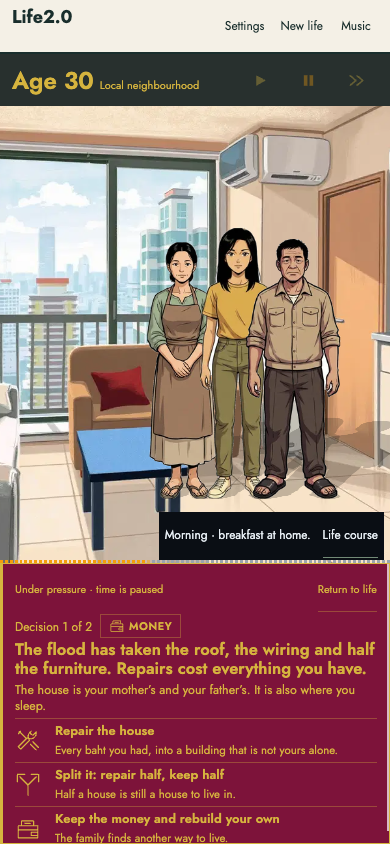
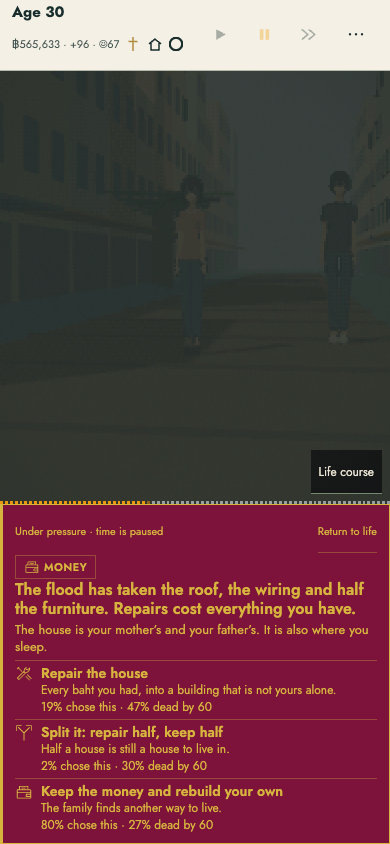
phone plan screen gives its space back to the world
CSS fixes:
- Header 150→68px: money + symbols on one line, 34px transport keys
- Plan panel fits card height, action moved to panel exit
- Step tabs scroll instead of clipping
- World overlays share one edge
- Canvas fills remaining screen space (392→584px world height)

430 tests pass; audit gate 0 high.

diff --git a/dist/course/course.css b/dist/course/course.css
@@ -1,5 +1,24 @@
 :root{--paper:#f4f0e6;--ink:#192e2c;--muted:#52635b;--amber:#f59e0b;--line:#b4b9a9;font-family:Jost,sans-serif;font-size:16px;color:var(--ink);background:var(--paper)}
-html[lang="th"]{font-family:Prompt,"Noto Sans Thai",Jost,sans-serif}*{box-sizing:border-box}body{margin:0}button,select{font:inherit;color:inherit}button{cursor:pointer;background:transparent;border:1px solid #77877b;padding:6px 10px;line-height:1.4;transition:background .15s ease-out,transform .15s ease-out}button:hover{background:#dddccb}button:active{transform:scale(.97)}button:disabled{opacity:.35;cursor:default}button:focus-visible,a:focus-visible,select:focus-visible,summary:focus-visible{outline:3px solid var(--accent-ink,#a35d00);outline-offset:3px}a{color:inherit}header{display:flex;align-items:center;justify-content:space-between;gap:10px;padding:4px 12px;border-bottom:1px solid var(--line)}header>a{font-size:18px;font-weight:700;text-decoration:none;min-height:24px;display:inline-flex;align-items:center}header>a span{font-size:10px;font-weight:400;margin-left:10px}header>div{display:flex;gap:8px}header button{font-size:11px;min-height:28px;padding:3px 6px}main{max-width:1440px;margin:0 auto;display:grid;grid-template-columns:minmax(0,1.75fr) minmax(340px,1fr)}.stage{background:var(--stage,#193f3c);color:var(--stage-text,#f4f0e6);align-self:start;min-width:0}.world-head{display:flex;justify-content:space-between;align-items:center;gap:12px;padding:3px 12px}.world-head>div:first-child{display:flex;align-items:baseline;gap:12px}.world-head strong{font-size:16px;font-weight:600}.world-head span{font-size:11px}.transport{display:flex;gap:2px;align-items:center}.transport-key{display:inline-flex;align-items:center;justify-content:center;width:28px;height:28px;min-width:28px;min-height:28px;padding:0;border:0;background:none;color:inherit}.transport-key svg{width:19px;height:15px;display:block;fill:currentColor}.transport-key:hover{color:var(--stage-accent)}.transport-key[aria-pressed=true]{color:var(--stage-accent)}.transport-key:focus-visible{outline:2px solid var(--stage-accent);outline-offset:2px}.transport-fast svg{fill:none}.stage canvas{display:block;width:100%;height:auto;aspect-ratio:1120/680;image-rendering:pixelated}.world-bottom{display:flex;align-items:center;justify-content:space-between;gap:12px;padding:2px 12px}.world-bottom p{margin:0;font-size:11px;max-width:56ch;white-space:nowrap;overflow:hidden;text-overflow:ellipsis}.world-bottom button{font-size:11px;color:inherit;border:0;border-bottom:1px solid #738b77;padding:1px 0;min-height:20px;white-space:nowrap}#age-track{display:flex;gap:2px;padding:0 12px 4px}#age-track span{height:3px;flex:1;background:var(--deck-muted,#60756a)}#age-track span.past{background:var(--amber)}.decision{padding:20px 24px;align-self:start;min-width:0}.section-line{display:flex;align-items:center;justify-content:space-between;gap:12px;font-size:12px;color:var(--muted)}h1{font-size:32px;font-weight:500;line-height:1.15;margin:12px 0}p{line-height:1.45;max-width:65ch;margin:0 0 12px}#narrative{font-size:16px}#birth-info{font-size:16px}#birth-info dl{margin:18px 0}#birth-info dt{font-size:12px;color:var(--muted);margin-top:12px}#birth-info dd{margin:2px 0}.tabs{display:flex;gap:8px;margin:12px 0}.tabs button{font-size:12px;min-height:32px}.tabs button[aria-pressed=true]{border-bottom:3px solid var(--ink);font-weight:600}.radar-wrap{display:flex;align-items:center;gap:8px}.radar-wrap svg{width:64%;max-width:240px;height:auto;flex-shrink:0}.radar-wrap p{font-size:12px;max-width:14ch;margin:0}svg text{font-family:Jost,sans-serif;fill:var(--muted);font-size:12px}#allocation{max-width:340px}.allocation-row{display:grid;grid-template-columns:minmax(110px,1fr) 32px 24px 32px;align-items:center;gap:8px;border-bottom:1px solid var(--line);padding:4px 0}.allocation-row span{font-size:16px}.allocation-row button{padding:2px;min-height:32px}.allocation-row output{text-align:center;font-weight:600}.hint,.fine{font-size:12px;color:var(--muted)}.hint{margin:12px 0}.fine{margin:10px 0 0}.primary{background:var(--amber);border:2px solid var(--ink);font-weight:600;padding:9px 14px;min-height:44px}.primary:hover{background:#ffb629}#last-event{font-size:12px;border-left:3px solid var(--amber);padding-left:10px;margin-top:14px}#last-event:empty{display:none}.profile-field{display:block;margin:12px 0}.profile-field>label{display:block;font-size:12px;color:var(--muted);margin-bottom:4px}select{max-width:100%;background:#fcfaf3;border:1px solid #77877b;padding:7px 8px;font-size:16px}.profile-note{font-size:12px;line-height:1.4}.resources{grid-column:1/-1;padding:16px 24px;border-top:2px solid var(--ink)}h2{font-size:24px;font-weight:500;margin:0}.graphs{display:grid;grid-template-columns:repeat(3,minmax(0,1fr));gap:28px;margin-top:12px}figure{margin:0;min-width:0}figcaption{display:flex;justify-content:space-between;gap:8px;align-items:baseline;font-size:12px}figcaption strong{font-size:24px;font-weight:500}.graphs svg{display:block;width:100%;height:auto;max-height:110px}.method{grid-column:1/-1;border-top:1px solid var(--line);margin:0 24px 20px;padding-top:10px}.method summary{font-size:12px;cursor:pointer;padding:4px 0}.method>div{columns:2;column-gap:32px;margin-top:12px}.method p{font-size:12px;break-inside:avoid}#recap ol{padding-left:20px;font-size:12px;max-height:240px;overflow:auto}#recap li{margin-bottom:10px}#recap strong{font-weight:600}.recap-metrics{display:flex;gap:20px;margin:12px 0}.recap-metrics strong{font-size:24px;display:block}.recap-metrics span{font-size:12px}.recap-title{font-size:16px;font-weight:600}.previous{font-size:12px}[hidden]{display:none!important}@media(max-width:1000px) and (min-width:721px){main{grid-template-columns:minmax(0,1.35fr) minmax(330px,1fr)}.decision{padding:16px}.world-head{padding:10px 12px;align-items:start;flex-wrap:wrap}.world-head>div:first-child{gap:8px}.world-bottom{padding:10px 12px}.radar-wrap svg{max-width:180px}h1{font-size:24px}.graphs{gap:16px}}@media(max-width:720px){header{padding:8px 12px}header>a span{display:none}header>div{gap:6px}main{display:block}.world-head{padding:8px 12px;gap:8px}.world-head strong{font-size:24px}.world-head>div:first-child{gap:8px}.world-head span{max-width:12ch;line-height:1.2}.stage canvas{height:260px;aspect-ratio:auto;object-fit:cover}.world-bottom{padding:8px 12px}.world-bottom p{max-width:30ch}#age-track{padding:0 12px 8px}.decision{padding:16px}h1{font-size:24px;margin:8px 0}#narrative{font-size:16px}.radar-wrap svg{max-width:170px;width:57%}.radar-wrap p{max-width:20ch}.allocation-row{padding:3px 0}.resources{padding:12px 16px}.section-line h2{font-size:16px;font-weight:600}.resources>.section-line>span{font-size:12px;max-width:16ch;text-align:right}.graphs{gap:12px;grid-template-columns:1fr;margin-top:12px}.graphs figure{display:grid;grid-template-columns:120px minmax(0,1fr);align-items:center;gap:8px}.graphs figcaption{display:block}.graphs figcaption strong{display:block;font-size:24px}.graphs svg{max-height:85px}.method{margin:0 16px 16px}.method>div{columns:1}.tabs{margin:8px 0}#birth-info dl{margin:12px 0}#birth-info dt{margin-top:8px}#last-event{margin-top:10px}.hint{margin:8px 0}.profile-field{margin:10px 0}#recap ol{max-height:none;overflow:visible}}@media(prefers-reduced-motion:reduce){*{transition:none!important}}
+html[lang="th"]{font-family:Prompt,"Noto Sans Thai",Jost,sans-serif}*{box-sizing:border-box}body{margin:0}button,select{font:inherit;color:inherit}button{cursor:pointer;background:transparent;border:1px solid #77877b;padding:6px 10px;line-height:1.4;transition:background .15s ease-out,transform .15s ease-out}button:hover{background:#dddccb}button:active{transform:scale(.97)}button:disabled{opacity:.35;cursor:default}button:focus-visible,a:focus-visible,select:focus-visible,summary:focus-visible{outline:3px solid var(--accent-ink,#a35d00);outline-offset:3px}a{color:inherit}header{display:flex;align-items:center;justify-content:space-between;gap:10px;padding:4px 12px;border-bottom:1px solid var(--line)}header>a{font-size:18px;font-weight:700;text-decoration:none;min-height:24px;display:inline-flex;align-items:center}header>a span{font-size:10px;font-weight:400;margin-left:10px}header>div{display:flex;gap:8px}header button{font-size:11px;min-height:28px;padding:3px 6px}main{max-width:1440px;margin:0 auto;display:grid;grid-template-columns:minmax(0,1.75fr) minmax(340px,1fr)}.stage{background:var(--stage,#193f3c);color:var(--stage-text,#f4f0e6);align-self:start;min-width:0}.world-head{display:flex;justify-content:space-between;align-items:center;gap:12px;padding:3px 12px}.world-head>div:first-child{display:flex;align-items:baseline;gap:12px}.world-head strong{font-size:16px;font-weight:600}.world-head span{font-size:11px}.transport{display:flex;gap:2px;align-items:center}.transport-key{display:inline-flex;align-items:center;justify-content:center;width:28px;height:28px;min-width:28px;min-height:28px;padding:0;border:0;background:none;color:inherit}.transport-key svg{width:19px;height:15px;display:block;fill:currentColor}.transport-key:hover{color:var(--stage-accent)}.transport-key[aria-pressed=true]{color:var(--stage-accent)}.transport-key:focus-visible{outline:2px solid var(--stage-accent);outline-offset:2px}.transport-fast svg{fill:none}.stage canvas{display:block;width:100%;height:auto;aspect-ratio:1120/680;image-rendering:pixelated}.world-bottom{display:flex;align-items:center;justify-content:space-between;gap:12px;padding:2px 12px}.world-bottom p{margin:0;font-size:11px;max-width:56ch;white-space:nowrap;overflow:hidden;text-overflow:ellipsis}.world-bottom button{font-size:11px;color:inherit;border:0;border-bottom:1px solid #738b77;padding:1px 0;min-height:20px;white-space:nowrap}#age-track{display:flex;gap:2px;padding:0 12px 4px}#age-track span{height:3px;flex:1;background:var(--deck-muted,#60756a)}#age-track span.past{background:var(--amber)}.decision{padding:20px 24px;align-self:start;min-width:0}.section-line{display:flex;align-items:center;justify-content:space-between;gap:12px;font-size:12px;color:var(--muted)}h1{font-size:32px;font-weight:500;line-height:1.15;margin:12px 0}p{line-height:1.45;max-width:65ch;margin:0 0 12px}#narrative{font-size:16px}#birth-info{font-size:16px}#birth-info dl{margin:18px 0}#birth-info dt{font-size:12px;color:var(--muted);margin-top:12px}#birth-info dd{margin:2px 0}.tabs{display:flex;gap:8px;margin:12px 0}.tabs button{font-size:12px;min-height:32px}.tabs button[aria-pressed=true]{border-bottom:3px solid var(--ink);font-weight:600}.radar-wrap{display:flex;align-items:center;gap:8px}.radar-wrap svg{width:64%;max-width:240px;height:auto;flex-shrink:0}.radar-wrap p{font-size:12px;max-width:14ch;margin:0}svg text{font-family:Jost,sans-serif;fill:var(--muted);font-size:12px}#allocation{max-width:340px}.allocation-row{display:grid;grid-template-columns:minmax(110px,1fr) 32px 24px 32px;align-items:center;gap:8px;border-bottom:1px solid var(--line);padding:4px 0}.allocation-row span{font-size:16px}.allocation-row button{padding:2px;min-height:32px}.allocation-row output{text-align:center;font-weight:600}.hint,.fine{font-size:12px;color:var(--muted)}.hint{margin:12px 0}.fine{margin:10px 0 0}.primary{background:var(--amber);border:2px solid var(--ink);font-weight:600;padding:9px 14px;min-height:44px}.primary:hover{background:#ffb629}#last-event{font-size:12px;border-left:3px solid var(--amber);padding-left:10px;margin-top:14px}#last-event:empty{display:none}.profile-field{display:block;margin:12px 0}.profile-field>label{display:block;font-size:12px;color:var(--muted);margin-bottom:4px}select{max-width:100%;background:#fcfaf3;border:1px solid #77877b;padding:7px 8px;font-size:16px}.profile-note{font-size:12px;line-height:1.4}.resources{grid-column:1/-1;padding:16px 24px;border-top:2px solid var(--ink)}h2{font-size:24px;font-weight:500;margin:0}.graphs{display:grid;grid-template-columns:repeat(3,minmax(0,1fr));gap:28px;margin-top:12px}figure{margin:0;min-width:0}figcaption{display:flex;justify-content:space-between;gap:8px;align-items:baseline;font-size:12px}figcaption strong{font-size:24px;font-weight:500}.graphs svg{display:block;width:100%;height:auto;max-height:110px}.method{grid-column:1/-1;border-top:1px solid var(--line);margin:0 24px 20px;padding-top:10px}.method summary{font-size:12px;cursor:pointer;padding:4px 0}.method>div{columns:2;column-gap:32px;margin-top:12px}.method p{font-size:12px;break-inside:avoid}#recap ol{padding-left:20px;font-size:12px;max-height:240px;overflow:auto}#recap li{margin-bottom:10px}#recap strong{font-weight:600}.recap-metrics{display:flex;gap:20px;margin:12px 0}.recap-metrics strong{font-size:24px;display:block}.recap-metrics span{font-size:12px}.recap-title{font-size:16px;font-weight:600}.previous{font-size:12px}[hidden]{display:none!important}@media(max-width:1000px) and (min-width:721px){main{grid-template-columns:minmax(0,1.35fr) minmax(330px,1fr)}.decision{padding:16px}.world-head{padding:10px 12px;align-items:start;flex-wrap:wrap}.world-head>div:first-child{gap:8px}.world-bottom{padding:10px 12px}.radar-wrap svg{max-width:180px}h1{font-size:24px}.graphs{gap:16px}}@media(max-width:720px){
+header{padding:4px 10px}
+header>a{font-size:15px}
+header>a span{display:none}
+header>div{gap:5px}
+header button{font-size:10px;min-height:24px;padding:2px 6px}
+main{display:flex;flex-direction:column;min-height:100vh}
+.stage{flex:1;min-height:0}
+.stage canvas{height:100%;width:100%;aspect-ratio:auto;object-fit:cover}
+.world-bottom{padding:6px 12px}
+.world-bottom p{max-width:30ch;white-space:normal}
+.decision{padding:8px}
+.decision h1{font-size:18px;margin:0 0 4px;line-height:1.2}
+.decision p{font-size:14px;margin:0 0 6px;line-height:1.4}
+.pivot-option{padding:6px 10px;min-height:38px;max-width:none;flex-direction:row;align-items:center}
+.pivot-option .choice-symbol{width:18px;height:18px;margin:0 4px 0 0}
+.pivot-label{font-size:14px;max-width:none}
+.pivot-cost{font-size:12px}
+.pivot-options{display:flex;gap:4px;flex-wrap:wrap;margin-top:6px}
+}@media(prefers-reduced-motion:reduce){*{transition:none!important}}
 /* Birth is an experience to watch, not a dashboard waiting for data. */
 .birth-stage .stage{grid-column:1/-1}.birth-stage .decision,.birth-stage .resources,.birth-stage .method{display:none}.birth-stage .stage canvas{height:calc(100svh - 155px);aspect-ratio:auto;object-fit:cover}.birth-stage .world-bottom p{font-size:16px;max-width:65ch}.birth-stage .world-head{padding:6px 16px}.birth-stage .world-bottom{padding:6px 16px}@media(max-width:720px){.birth-stage .stage canvas{height:calc(100svh - 175px)}.birth-stage .world-head,.birth-stage .world-bottom{padding:6px 12px}.birth-stage .world-bottom p{font-size:12px}}
 /* Memory bar fits its content, not the dock — compact at every age. */
